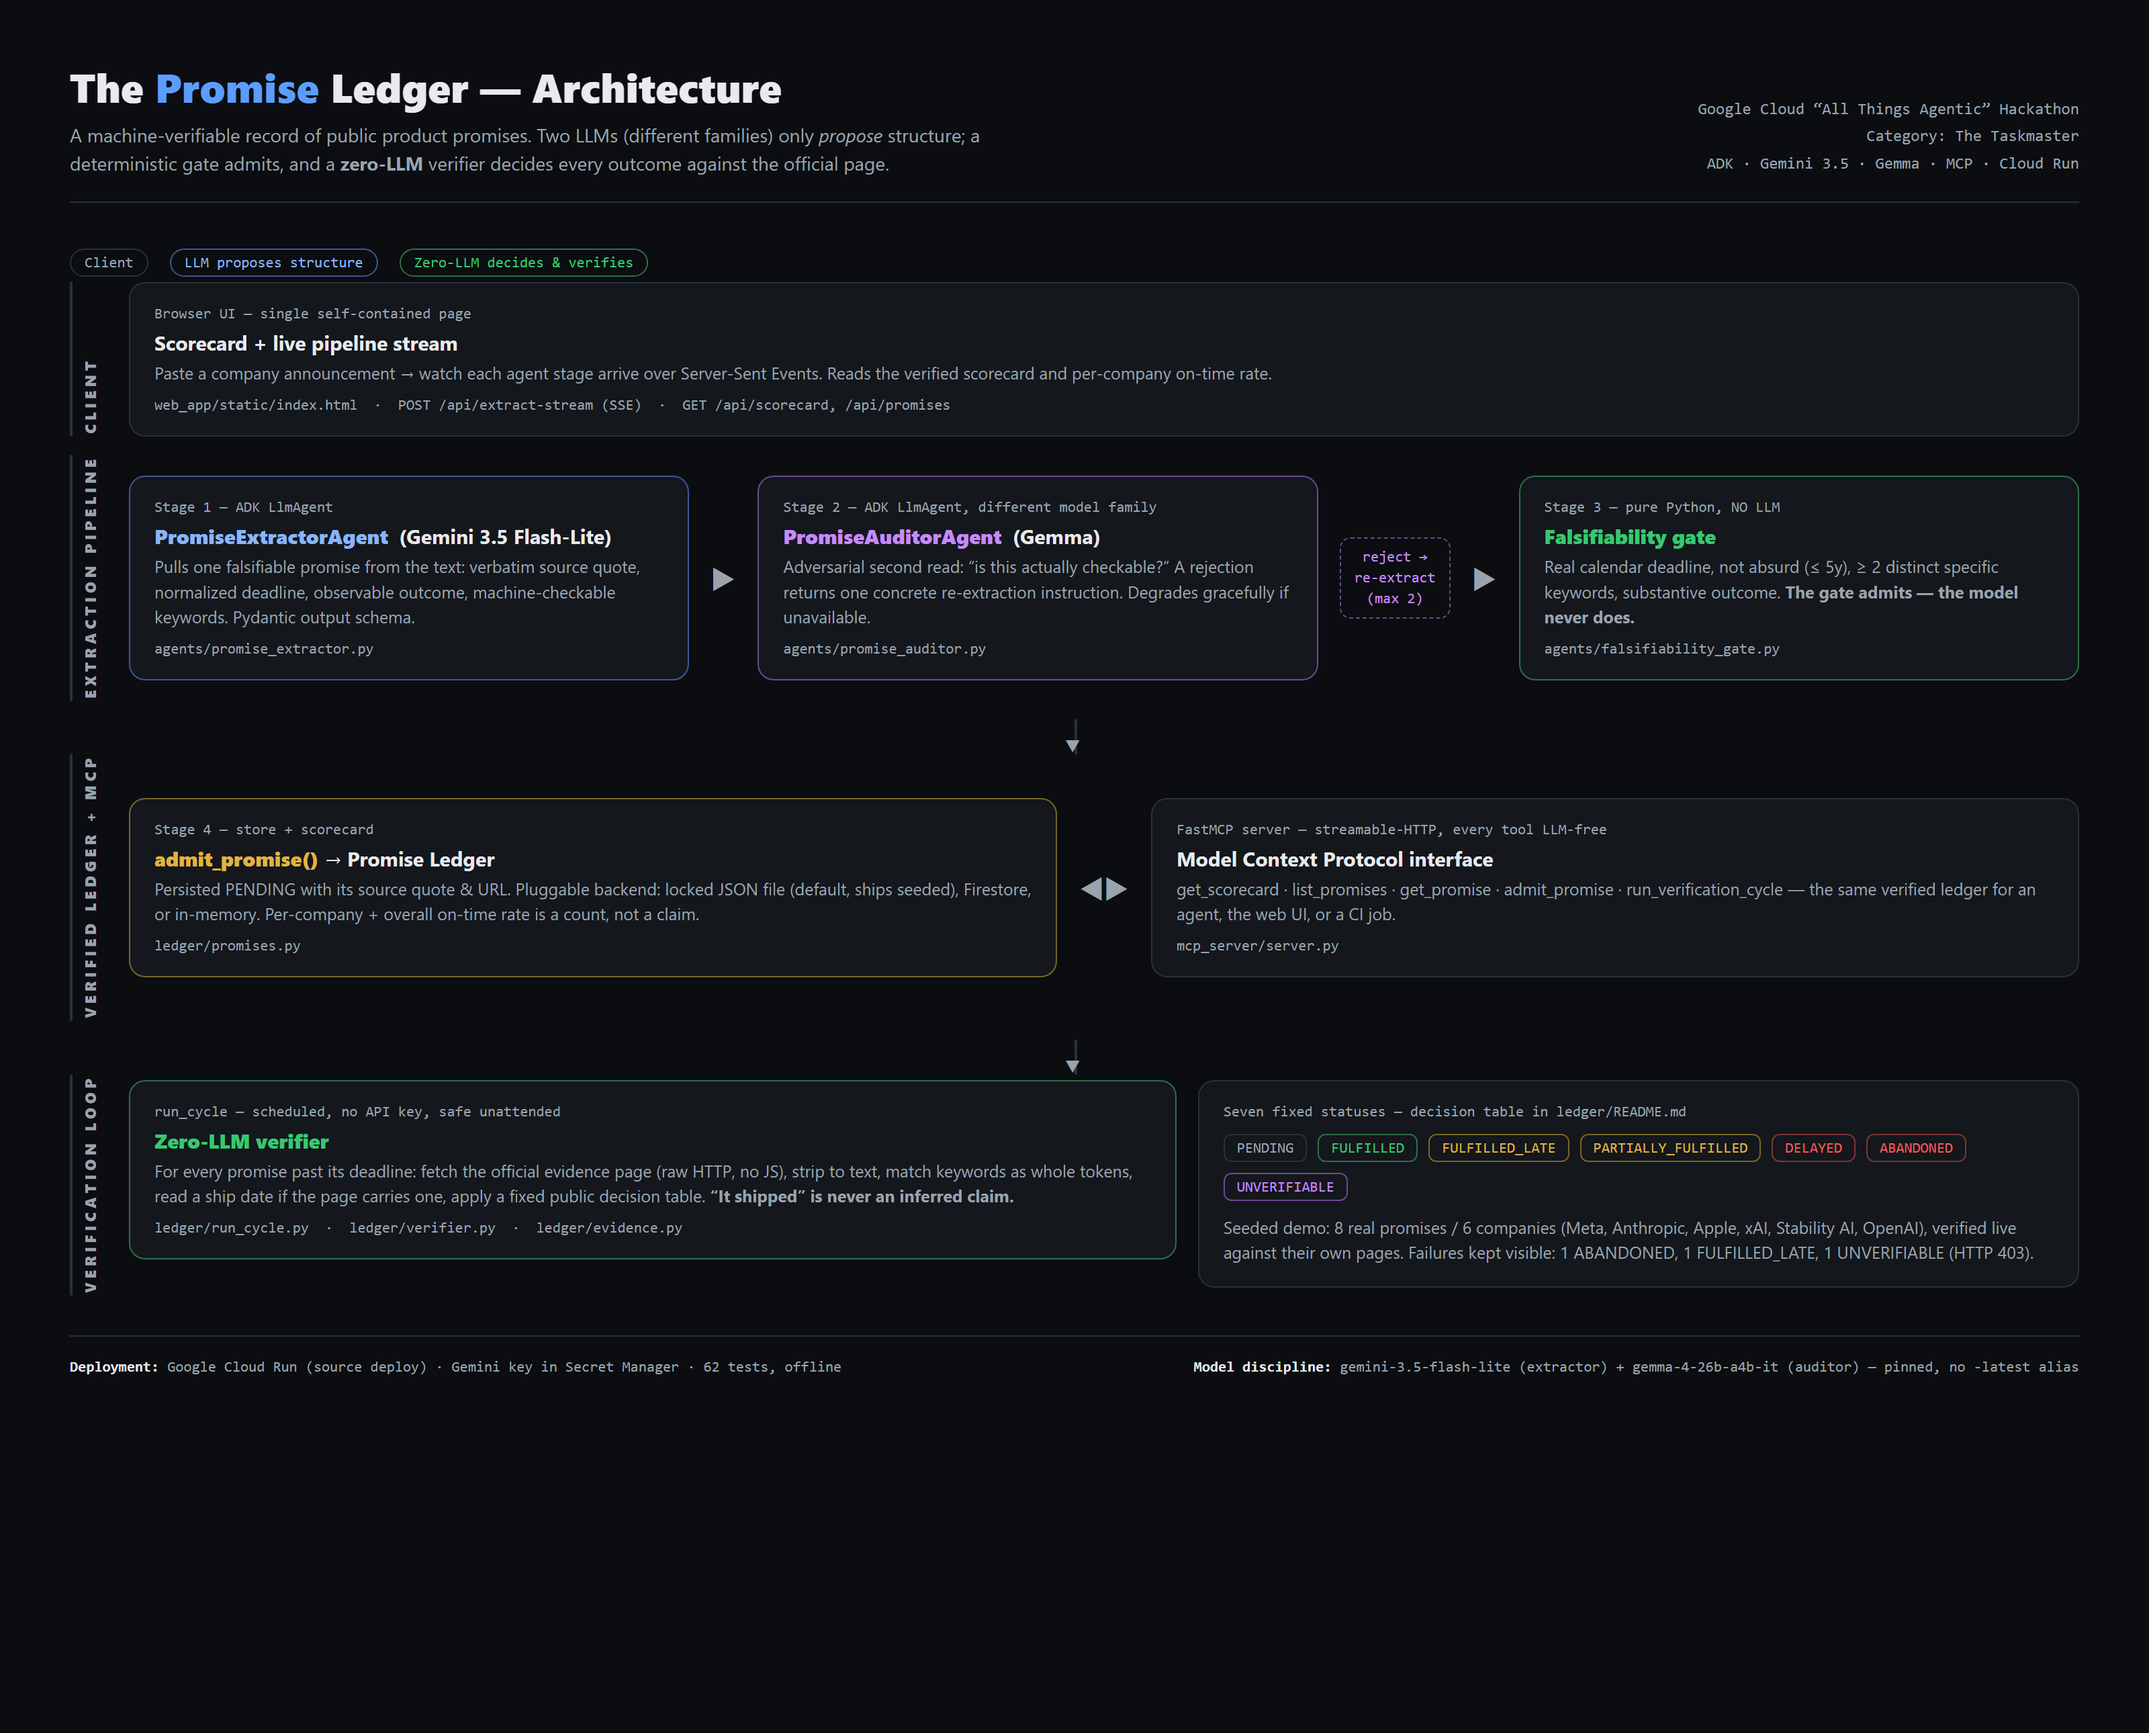
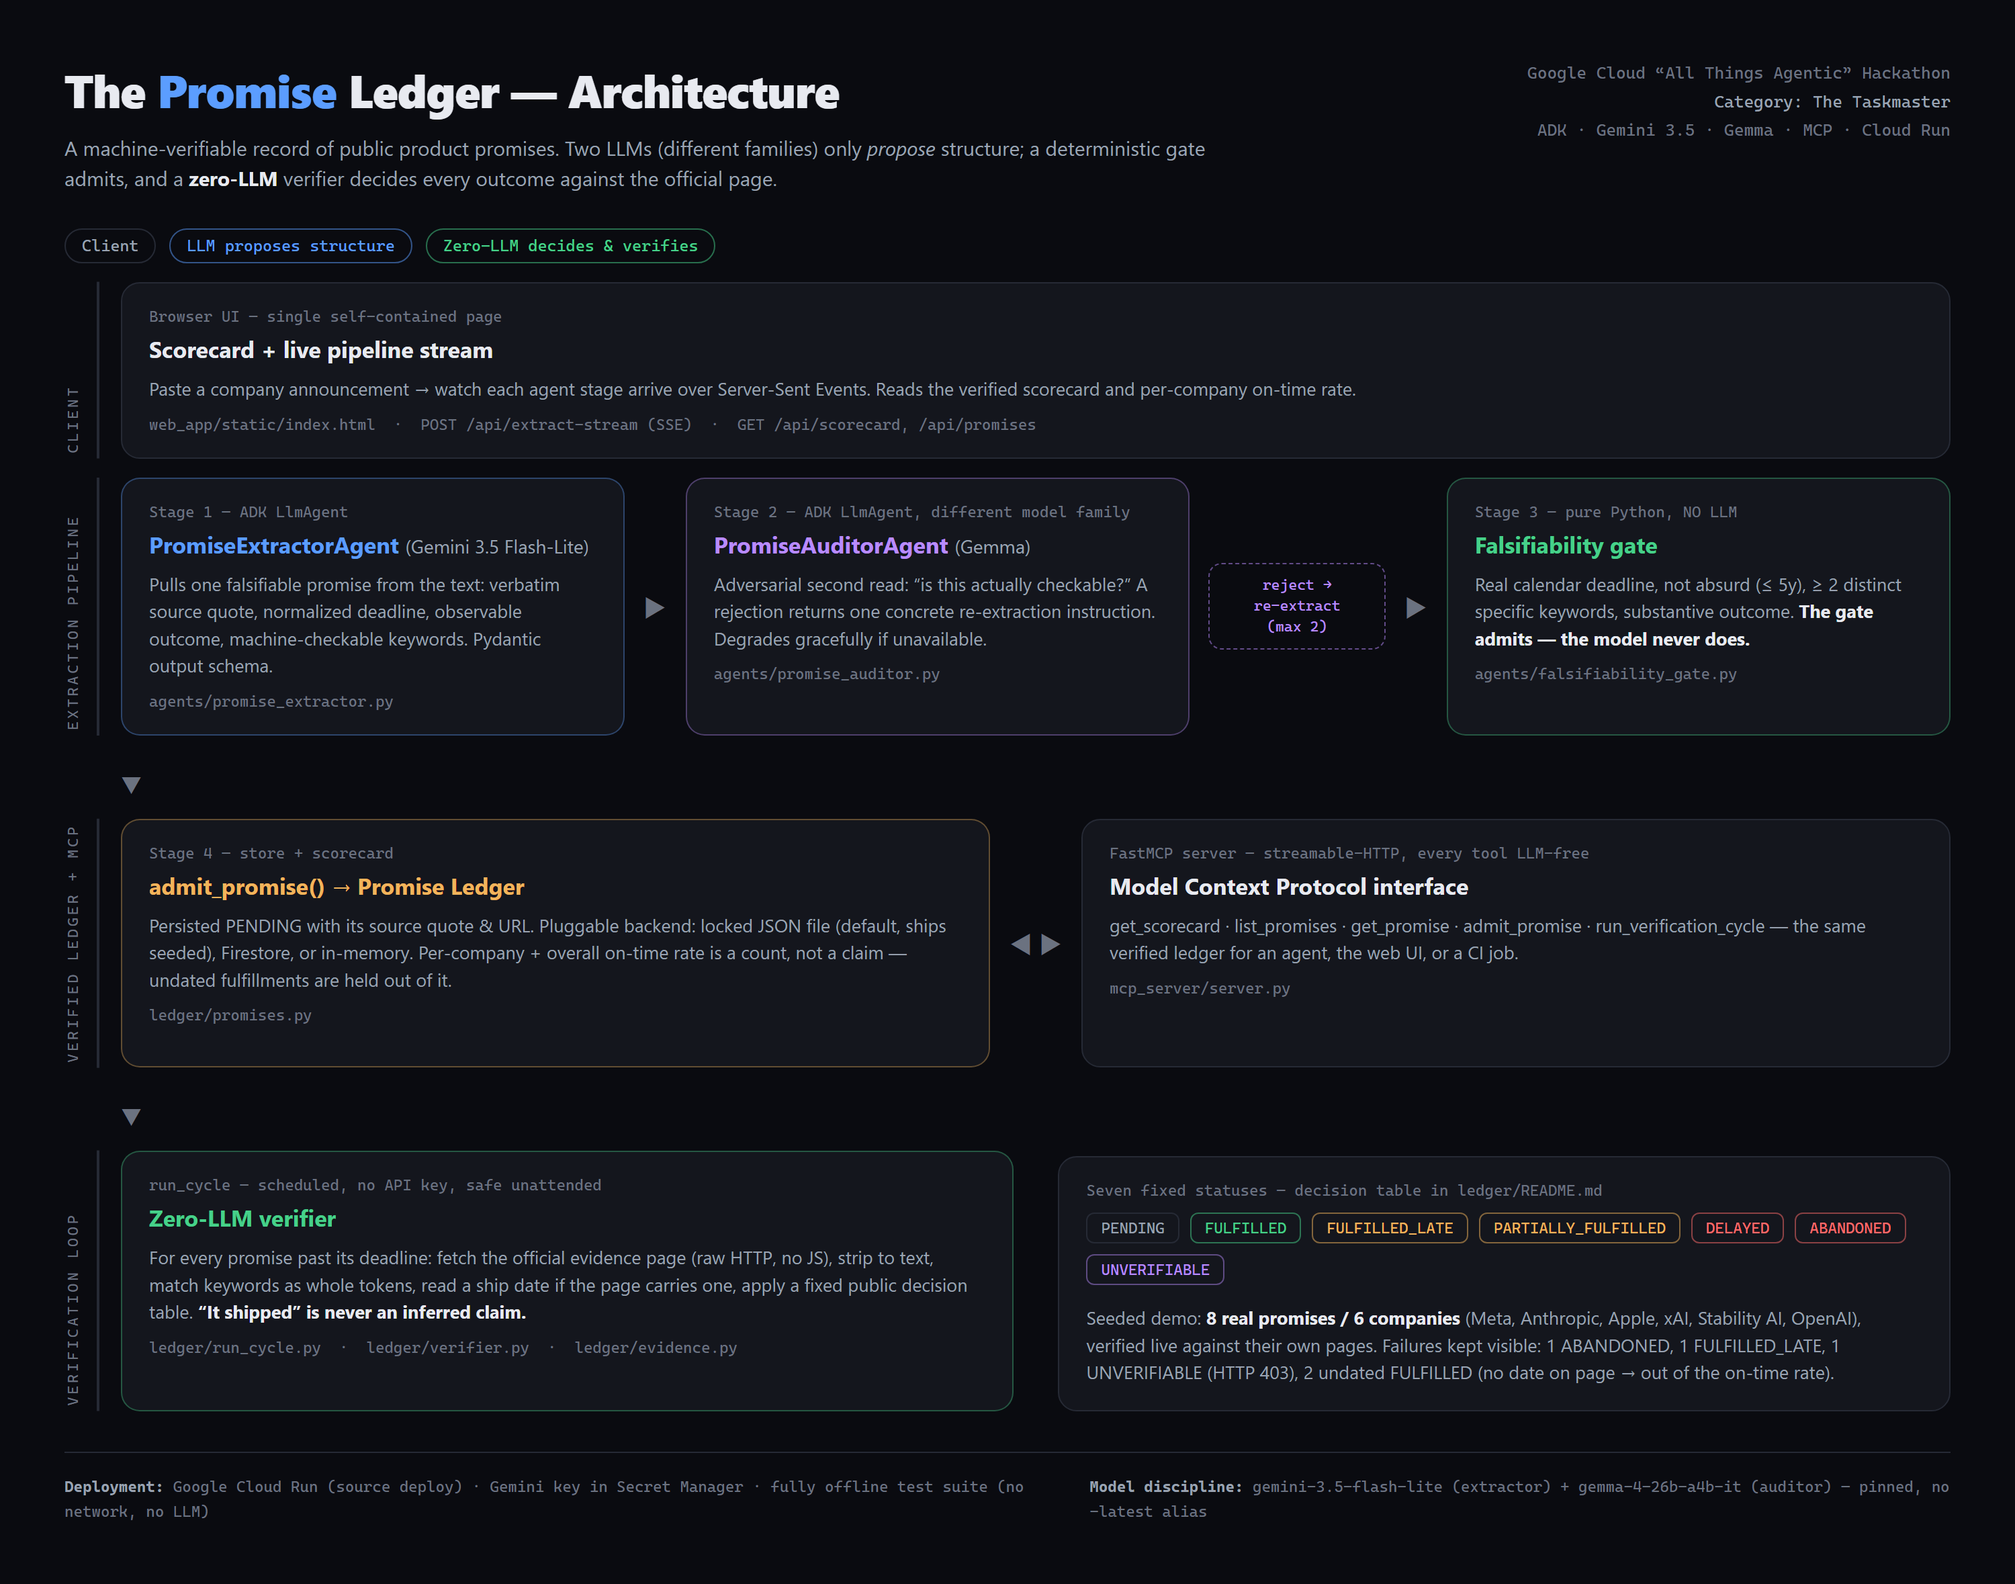
Regenerate architecture diagram; check in its HTML source
- Diagram footer no longer cites a fixed test count (was stale at "62");
  reads "fully offline test suite" so it can't drift again.
- Diagram now names the undated-fulfillment bucket and the FULFILLED_LATE
  verdict, matching the hardened scorecard.
- Check in docs/architecture.html so the PNG can be re-rendered headless.
- Drop a leftover "virality auditor" reference from the pre-pivot product
  in promise_auditor.py's docstring.

diff --git a/docs/architecture.html b/docs/architecture.html
@@ -1,0 +1,233 @@
+<!doctype html>
+<html lang="en">
+<head>
+<meta charset="utf-8">
+<style>
+  * { margin: 0; padding: 0; box-sizing: border-box; }
+  :root {
+    --bg: #0a0b10;
+    --ink: #e8eaf0;
+    --muted: #9aa3b2;
+    --faint: #6b7280;
+    --card: #14161d;
+    --card-border: #262a35;
+    --mono: ui-monospace, "SF Mono", "Cascadia Code", "JetBrains Mono", Menlo, Consolas, monospace;
+    --sans: -apple-system, "Segoe UI", Roboto, Helvetica, Arial, sans-serif;
+    --blue: #5b9dff;
+    --green: #46d18a;
+    --purple: #b98bff;
+    --amber: #f2b45b;
+    --red: #ff6b6b;
+  }
+  html, body { background: var(--bg); }
+  body {
+    width: 1500px;
+    font-family: var(--sans);
+    color: var(--ink);
+    padding: 44px 48px 36px;
+    -webkit-font-smoothing: antialiased;
+  }
+
+  /* ---------- header ---------- */
+  header { display: flex; justify-content: space-between; align-items: flex-start; gap: 40px; }
+  h1 { font-size: 34px; font-weight: 800; letter-spacing: -0.5px; }
+  h1 .accent { color: var(--blue); }
+  .lede { margin-top: 10px; max-width: 860px; color: var(--muted); font-size: 15px; line-height: 1.5; }
+  .lede b { color: var(--ink); }
+  .meta { text-align: right; font-family: var(--mono); font-size: 12.5px; color: var(--faint); line-height: 1.7; white-space: nowrap; }
+  .meta .strong { color: var(--muted); }
+
+  /* ---------- legend ---------- */
+  .legend { display: flex; gap: 10px; margin: 26px 0 10px; }
+  .chip { font-family: var(--mono); font-size: 12px; padding: 5px 12px; border-radius: 999px; border: 1px solid var(--card-border); color: var(--muted); }
+  .chip.b { border-color: rgba(91,157,255,.5); color: var(--blue); }
+  .chip.g { border-color: rgba(70,209,138,.5); color: var(--green); }
+
+  /* ---------- band / rows ---------- */
+  .band { display: grid; grid-template-columns: 26px 1fr; gap: 16px; margin-top: 14px; }
+  .band-label {
+    writing-mode: vertical-rl; transform: rotate(180deg);
+    font-family: var(--mono); font-size: 11px; letter-spacing: 2px;
+    color: var(--faint); text-transform: uppercase; padding: 4px 0;
+    border-left: 2px solid var(--card-border);
+  }
+  .row { display: flex; align-items: stretch; gap: 14px; }
+  .card {
+    background: var(--card); border: 1px solid var(--card-border);
+    border-radius: 14px; padding: 18px 20px; flex: 1;
+  }
+  .card .kicker { font-family: var(--mono); font-size: 11.5px; color: var(--faint); margin-bottom: 6px; }
+  .card h3 { font-size: 17px; font-weight: 700; margin-bottom: 8px; }
+  .card h3 .sub { font-weight: 400; font-size: 14px; color: var(--muted); }
+  .card p { font-size: 13.5px; line-height: 1.5; color: var(--muted); }
+  .card p b { color: var(--ink); }
+  .card .path { margin-top: 10px; font-family: var(--mono); font-size: 11.5px; color: var(--faint); }
+  .card.blue { border-color: rgba(91,157,255,.35); }
+  .card.blue h3 { color: var(--blue); }
+  .card.purple { border-color: rgba(185,139,255,.35); }
+  .card.purple h3 { color: var(--purple); }
+  .card.green { border-color: rgba(70,209,138,.35); }
+  .card.green h3 { color: var(--green); }
+  .card.amber { border-color: rgba(242,180,91,.35); }
+  .card.amber h3 { color: var(--amber); }
+
+  .arrow { align-self: center; color: var(--faint); font-size: 20px; flex: 0 0 auto; }
+  .arrow-down { text-align: center; color: var(--faint); font-size: 18px; margin: 8px 0 0 42px; }
+
+  .loopback {
+    align-self: center; flex: 0 0 132px; text-align: center;
+    font-family: var(--mono); font-size: 11px; color: var(--purple);
+    border: 1px dashed rgba(185,139,255,.5); border-radius: 10px; padding: 8px 6px; line-height: 1.4;
+  }
+
+  /* ---------- status chips ---------- */
+  .statuses { margin-top: 4px; }
+  .statuses .kicker { font-family: var(--mono); font-size: 11.5px; color: var(--faint); margin-bottom: 10px; }
+  .status-row { display: flex; flex-wrap: wrap; gap: 8px; margin-bottom: 14px; }
+  .s { font-family: var(--mono); font-size: 11.5px; padding: 4px 10px; border-radius: 6px; border: 1px solid var(--card-border); color: var(--muted); }
+  .s.ok { border-color: rgba(70,209,138,.5); color: var(--green); }
+  .s.late { border-color: rgba(242,180,91,.5); color: var(--amber); }
+  .s.bad { border-color: rgba(255,107,107,.5); color: var(--red); }
+  .s.dim { border-color: rgba(185,139,255,.45); color: var(--purple); }
+  .seed { font-size: 12.5px; line-height: 1.55; color: var(--muted); }
+  .seed b { color: var(--ink); }
+
+  /* ---------- footer ---------- */
+  footer { display: flex; justify-content: space-between; gap: 40px; margin-top: 30px; padding-top: 16px; border-top: 1px solid var(--card-border); }
+  footer div { font-family: var(--mono); font-size: 11.5px; color: var(--faint); line-height: 1.6; }
+  footer b { color: var(--muted); }
+</style>
+</head>
+<body>
+
+  <header>
+    <div>
+      <h1>The <span class="accent">Promise</span> Ledger &mdash; Architecture</h1>
+      <p class="lede">A machine-verifiable record of public product promises. Two LLMs (different
+      families) only <i>propose</i> structure; a deterministic gate admits, and a
+      <b>zero-LLM</b> verifier decides every outcome against the official page.</p>
+    </div>
+    <div class="meta">
+      Google Cloud &ldquo;All Things Agentic&rdquo; Hackathon<br>
+      <span class="strong">Category: The Taskmaster</span><br>
+      ADK &middot; Gemini 3.5 &middot; Gemma &middot; MCP &middot; Cloud Run
+    </div>
+  </header>
+
+  <div class="legend">
+    <span class="chip">Client</span>
+    <span class="chip b">LLM proposes structure</span>
+    <span class="chip g">Zero-LLM decides &amp; verifies</span>
+  </div>
+
+  <!-- CLIENT -->
+  <div class="band">
+    <div class="band-label">Client</div>
+    <div class="row">
+      <div class="card">
+        <div class="kicker">Browser UI &mdash; single self-contained page</div>
+        <h3>Scorecard + live pipeline stream</h3>
+        <p>Paste a company announcement &rarr; watch each agent stage arrive over Server-Sent
+        Events. Reads the verified scorecard and per-company on-time rate.</p>
+        <div class="path">web_app/static/index.html &nbsp;&middot;&nbsp; POST /api/extract-stream (SSE) &nbsp;&middot;&nbsp; GET /api/scorecard, /api/promises</div>
+      </div>
+    </div>
+  </div>
+
+  <!-- EXTRACTION PIPELINE -->
+  <div class="band">
+    <div class="band-label">Extraction pipeline</div>
+    <div class="row">
+      <div class="card blue">
+        <div class="kicker">Stage 1 &mdash; ADK LlmAgent</div>
+        <h3>PromiseExtractorAgent <span class="sub">(Gemini 3.5 Flash-Lite)</span></h3>
+        <p>Pulls one falsifiable promise from the text: verbatim source quote, normalized
+        deadline, observable outcome, machine-checkable keywords. Pydantic output schema.</p>
+        <div class="path">agents/promise_extractor.py</div>
+      </div>
+      <div class="arrow">&#9654;</div>
+      <div class="card purple">
+        <div class="kicker">Stage 2 &mdash; ADK LlmAgent, different model family</div>
+        <h3>PromiseAuditorAgent <span class="sub">(Gemma)</span></h3>
+        <p>Adversarial second read: &ldquo;is this actually checkable?&rdquo; A rejection returns
+        one concrete re-extraction instruction. Degrades gracefully if unavailable.</p>
+        <div class="path">agents/promise_auditor.py</div>
+      </div>
+      <div class="loopback">reject &rarr;<br>re-extract<br>(max 2)</div>
+      <div class="arrow">&#9654;</div>
+      <div class="card green">
+        <div class="kicker">Stage 3 &mdash; pure Python, NO LLM</div>
+        <h3>Falsifiability gate</h3>
+        <p>Real calendar deadline, not absurd (&le; 5y), &ge; 2 distinct specific keywords,
+        substantive outcome. <b>The gate admits &mdash; the model never does.</b></p>
+        <div class="path">agents/falsifiability_gate.py</div>
+      </div>
+    </div>
+    <div class="arrow-down">&#9660;</div>
+  </div>
+
+  <!-- VERIFIED LEDGER + MCP -->
+  <div class="band">
+    <div class="band-label">Verified ledger + MCP</div>
+    <div class="row">
+      <div class="card amber">
+        <div class="kicker">Stage 4 &mdash; store + scorecard</div>
+        <h3>admit_promise() &rarr; Promise Ledger</h3>
+        <p>Persisted PENDING with its source quote &amp; URL. Pluggable backend: locked JSON file
+        (default, ships seeded), Firestore, or in-memory. Per-company + overall on-time rate is a
+        count, not a claim &mdash; undated fulfillments are held out of it.</p>
+        <div class="path">ledger/promises.py</div>
+      </div>
+      <div class="arrow">&#9664;&nbsp;&#9654;</div>
+      <div class="card">
+        <div class="kicker">FastMCP server &mdash; streamable-HTTP, every tool LLM-free</div>
+        <h3>Model Context Protocol interface</h3>
+        <p>get_scorecard &middot; list_promises &middot; get_promise &middot; admit_promise &middot;
+        run_verification_cycle &mdash; the same verified ledger for an agent, the web UI, or a CI job.</p>
+        <div class="path">mcp_server/server.py</div>
+      </div>
+    </div>
+    <div class="arrow-down">&#9660;</div>
+  </div>
+
+  <!-- VERIFICATION LOOP -->
+  <div class="band">
+    <div class="band-label">Verification loop</div>
+    <div class="row">
+      <div class="card green">
+        <div class="kicker">run_cycle &mdash; scheduled, no API key, safe unattended</div>
+        <h3>Zero-LLM verifier</h3>
+        <p>For every promise past its deadline: fetch the official evidence page (raw HTTP, no JS),
+        strip to text, match keywords as whole tokens, read a ship date if the page carries one,
+        apply a fixed public decision table. <b>&ldquo;It shipped&rdquo; is never an inferred claim.</b></p>
+        <div class="path">ledger/run_cycle.py &nbsp;&middot;&nbsp; ledger/verifier.py &nbsp;&middot;&nbsp; ledger/evidence.py</div>
+      </div>
+      <div class="arrow">&nbsp;</div>
+      <div class="card statuses">
+        <div class="kicker">Seven fixed statuses &mdash; decision table in ledger/README.md</div>
+        <div class="status-row">
+          <span class="s">PENDING</span>
+          <span class="s ok">FULFILLED</span>
+          <span class="s late">FULFILLED_LATE</span>
+          <span class="s late">PARTIALLY_FULFILLED</span>
+          <span class="s bad">DELAYED</span>
+          <span class="s bad">ABANDONED</span>
+          <span class="s dim">UNVERIFIABLE</span>
+        </div>
+        <p class="seed">Seeded demo: <b>8 real promises / 6 companies</b> (Meta, Anthropic, Apple,
+        xAI, Stability AI, OpenAI), verified live against their own pages. Failures kept visible:
+        1 ABANDONED, 1 FULFILLED_LATE, 1 UNVERIFIABLE (HTTP 403), 2 undated FULFILLED
+        (no date on page &rarr; out of the on-time rate).</p>
+      </div>
+    </div>
+  </div>
+
+  <footer>
+    <div><b>Deployment:</b> Google Cloud Run (source deploy) &middot; Gemini key in Secret Manager
+    &middot; fully offline test suite (no network, no LLM)</div>
+    <div><b>Model discipline:</b> gemini-3.5-flash-lite (extractor) + gemma-4-26b-a4b-it (auditor)
+    &mdash; pinned, no -latest alias</div>
+  </footer>
+
+</body>
+</html>

diff --git a/agents/promise_auditor.py b/agents/promise_auditor.py
@@ -1,10 +1,9 @@
 """
 PromiseAuditorAgent - adversarial critic on an extracted promise, before it
-reaches the deterministic gate. Same "adversarial by default" stance as the
-original virality auditor: assume the extraction is too loose until it proves
-otherwise. If it rejects, it must hand back ONE exact re-extraction
-instruction so the self-correction loop produces a genuinely different,
-crisper promise (not a rephrase).
+reaches the deterministic gate. Adversarial by default: assume the extraction
+is too loose until it proves otherwise. If it rejects, it must hand back ONE
+exact re-extraction instruction so the self-correction loop produces a
+genuinely different, crisper promise (not a rephrase).
 
 Runs on a different model family (Gemma) when available - an independent
 second read on "is this actually falsifiable", which is the ledger's whole
